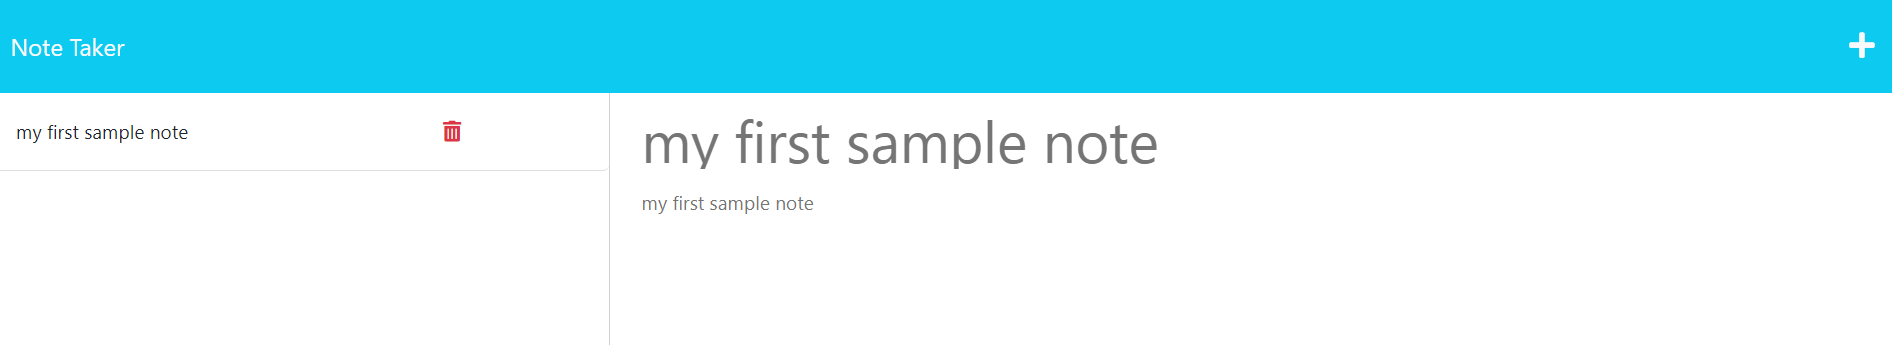
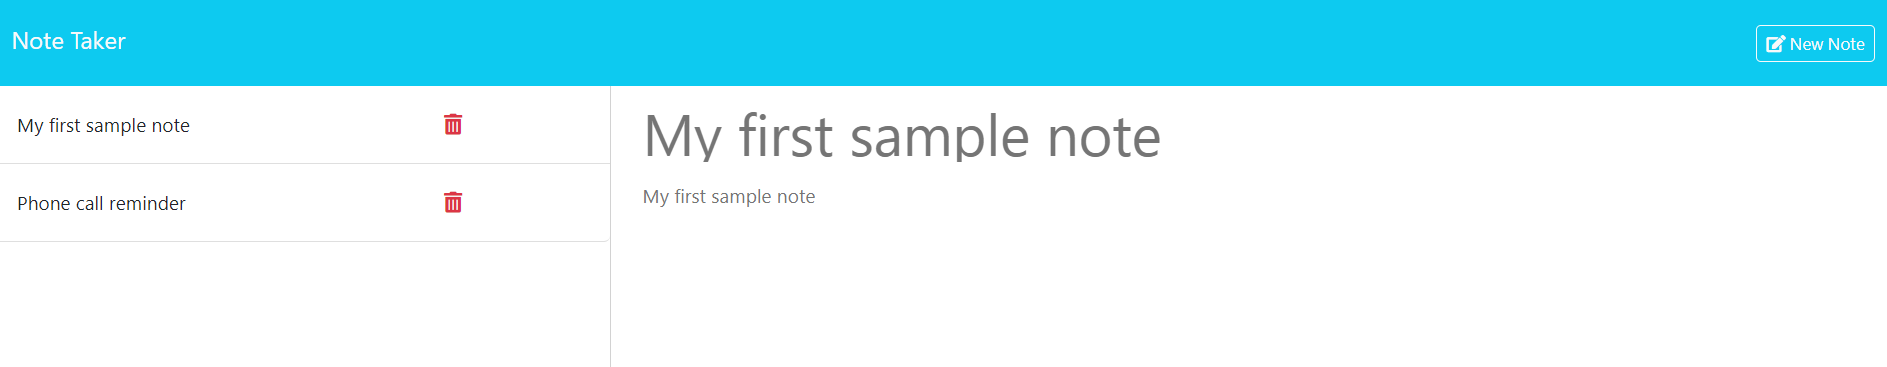
update front end template code to the latest version

diff --git a/public/assets/js/index.js b/public/assets/js/index.js
@@ -1,3 +1,4 @@
+let noteForm;
 let noteTitle;
 let noteText;
 let saveNoteBtn;
@@ -5,10 +6,12 @@ let newNoteBtn;
 let noteList;
 
 if (window.location.pathname === '/notes') {
+  noteForm = document.querySelector('.note-form');
   noteTitle = document.querySelector('.note-title');
   noteText = document.querySelector('.note-textarea');
   saveNoteBtn = document.querySelector('.save-note');
   newNoteBtn = document.querySelector('.new-note');
+  clearBtn = document.querySelector('.clear-btn');
   noteList = document.querySelectorAll('.list-container .list-group');
 }
 
@@ -29,44 +32,39 @@ const getNotes = () =>
   fetch('/api/notes', {
     method: 'GET',
     headers: {
-      'Content-Type': 'application/json',
-    },
-  });
-
-const getNote = () =>
-  fetch('/api/note', {
-    method: 'GET',
-    headers: {
-      'Content-Type': 'application/json',
-    },
+      'Content-Type': 'application/json'
+    }
   });
 
 const saveNote = (note) =>
   fetch('/api/notes', {
     method: 'POST',
     headers: {
-      'Content-Type': 'application/json',
+      'Content-Type': 'application/json'
     },
-    body: JSON.stringify(note),
+    body: JSON.stringify(note)
   });
 
 const deleteNote = (id) =>
   fetch(`/api/notes/${id}`, {
     method: 'DELETE',
     headers: {
-      'Content-Type': 'application/json',
-    },
+      'Content-Type': 'application/json'
+    }
   });
 
 const renderActiveNote = () => {
   hide(saveNoteBtn);
+  hide(clearBtn);
 
   if (activeNote.id) {
+    show(newNoteBtn);
     noteTitle.setAttribute('readonly', true);
     noteText.setAttribute('readonly', true);
     noteTitle.value = activeNote.title;
     noteText.value = activeNote.text;
   } else {
+    hide(newNoteBtn);
     noteTitle.removeAttribute('readonly');
     noteText.removeAttribute('readonly');
     noteTitle.value = '';
@@ -77,7 +75,7 @@ const renderActiveNote = () => {
 const handleNoteSave = () => {
   const newNote = {
     title: noteTitle.value,
-    text: noteText.value,
+    text: noteText.value
   };
   saveNote(newNote).then(() => {
     getAndRenderNotes();
@@ -113,11 +111,16 @@ const handleNoteView = (e) => {
 // Sets the activeNote to and empty object and allows the user to enter a new note
 const handleNewNoteView = (e) => {
   activeNote = {};
+  show(clearBtn);
   renderActiveNote();
 };
 
-const handleRenderSaveBtn = () => {
-  if (!noteTitle.value.trim() || !noteText.value.trim()) {
+// Renders the appropriate buttons based on the state of the form
+const handleRenderBtns = () => {
+  show(clearBtn);
+  if (!noteTitle.value.trim() && !noteText.value.trim()) {
+    hide(clearBtn);
+  } else if (!noteTitle.value.trim() || !noteText.value.trim()) {
     hide(saveNoteBtn);
   } else {
     show(saveNoteBtn);
@@ -184,11 +187,8 @@ const getAndRenderNotes = () => getNotes().then(renderNoteList);
 if (window.location.pathname === '/notes') {
   saveNoteBtn.addEventListener('click', handleNoteSave);
   newNoteBtn.addEventListener('click', handleNewNoteView);
-  noteTitle.addEventListener('keyup', handleRenderSaveBtn);
-  noteText.addEventListener('keyup', handleRenderSaveBtn);
+  clearBtn.addEventListener('click', renderActiveNote);
+  noteForm.addEventListener('input', handleRenderBtns);
 }
 
 getAndRenderNotes();
-
-
-

diff --git a/routes/notes.js b/routes/notes.js
@@ -1,63 +1,63 @@
 const notes = require('express').Router();
 const { v4: uuidv4 } = require('uuid');
-const { readDB, writeDB} = require('../helper/accessDB.js');
+const { readDB, writeDB } = require('../helper/accessDB.js');
 
 const DB_LOCATION = "./db/db.json";
 
 // GET Route for retrieving all notes
 notes.get('/', (req, res) => {
-    readDB(DB_LOCATION
-    ).then((data) => res.json(JSON.parse(data)));
-  });
+  readDB(DB_LOCATION)
+    .then((data) => res.json(JSON.parse(data)));
+});
 
 // GET Route for retrieving a specific note based on note id
 notes.get('/:id', (req, res) => {
-    const noteId = req.params.id;
+  const noteId = req.params.id;
 
-    readDB(DB_LOCATION)
+  readDB(DB_LOCATION)
     .then((data) => JSON.parse(data))
     .then((json) => {
       const result = json.filter((note) => note.id === noteId);
-          return result.length > 0
-          ? res.json(result)
-          : res.status(400).json('No note with that ID');
+      return result.length > 0
+        ? res.json(result)
+        : res.status(400).json('No note with that ID');
     });
-  });
+});
 
 // POST Route for saving a new note
 notes.post('/', (req, res) => {
-    console.log(req.body);
-  
-    const { title, text} = req.body;
-  
-    if (title && text) {
-      const newNote = {
-        title,
-        text,
-        id: uuidv4(),
-      };
+  console.log(req.body);
 
-      readDB(DB_LOCATION)
+  const { title, text } = req.body;
+
+  if (title && text) {
+    const newNote = {
+      title,
+      text,
+      id: uuidv4(),
+    };
+
+    readDB(DB_LOCATION)
       .then((data) => JSON.parse(data))
-      .then((json) =>{
+      .then((json) => {
         json.push(newNote);
-        writeDB(DB_LOCATION,json);
+        writeDB(DB_LOCATION, json);
       })
 
-      res.json(`Note added successfully`);
-    } else {
-      res.status(400).json('Error in adding note');
-    }
-    
-  });
+    res.json(`Note added successfully`);
+  } else {
+    res.status(400).json('Error in adding note');
+  }
+
+});
 
 // DELETE Route for removing a note in the DB based on given id
 notes.delete('/:id', (req, res) => {
-    const noteId = req.params.id;
+  const noteId = req.params.id;
 
-    readDB(DB_LOCATION)
+  readDB(DB_LOCATION)
     .then((data) => JSON.parse(data))
-    .then((json) =>{
+    .then((json) => {
       //remove the note with the given id from the json DB
       const result = json.filter((note) => note.id !== noteId);
 
@@ -68,7 +68,7 @@ notes.delete('/:id', (req, res) => {
       res.json(`Item ${noteId} has been deleted.`);
 
     });
-    
-  });
-  
-  module.exports = notes;
+
+});
+
+module.exports = notes;

diff --git a/public/notes.html b/public/notes.html
@@ -19,25 +19,37 @@
     <nav class="navbar bg-info">
       <a class="navbar-brand text-light p-3" href="/">Note Taker </a>
       <div class="icons">
-        <i class="fas fa-save text-light save-note"></i>
-        <i class="fas fa-plus text-light new-note"></i>
+        <button type="button" class="btn btn-outline-light btn-sm save-note">
+          <span class="fas fa-save"></span>
+          <span>Save Note</span>
+        </button>
+        <button type="button" class="btn btn-outline-light btn-sm new-note">
+          <span class="fas fa-edit"></span>
+          <span>New Note</span>
+        </button>
+        <button type="button" class="btn btn-sm btn-outline-danger clear-btn">
+          <span class="fas fa-times"></span>
+          <span>Clear Form</span>
+        </button>
       </div>
     </nav>
     <div class="container-fluid">
       <div class="row">
-        <div class="col-4 list-container">
+        <div class="col-4 list-container" id="list-container">
           <div class="card">
-            <ul class="list-group"></ul>
+            <ul class="list-group" id="list-group"></ul>
           </div>
         </div>
         <div class="col-8">
-          <input
+          <form class="note-form">
+            <input
             class="note-title"
             placeholder="Note Title"
             maxlength="28"
             type="text"
-          />
-          <textarea class="note-textarea" placeholder="Note Text"></textarea>
+            />
+            <textarea class="note-textarea" placeholder="Note Text"></textarea>
+            </form>
         </div>
       </div>
     </div>

diff --git a/public/index.html b/public/index.html
@@ -6,7 +6,7 @@
   <meta name="viewport" content="width=device-width, initial-scale=1.0">
   <meta http-equiv="X-UA-Compatible" content="ie=edge">
   <title>Note Taker</title>
-  <link href="https://cdn.jsdelivr.net/npm/bootstrap@5.2.3/dist/css/bootstrap.min.css" rel="stylesheet" integrity="sha384-rbsA2VBKQhggwzxH7pPCaAqO46MgnOM80zW1RWuH61DGLwZJEdK2Kadq2F9CUG65" crossorigin="anonymous">
+  <link href="https://cdn.jsdelivr.net/npm/bootstrap@5.2.3/dist/css/bootstrap.min.css" rel="stylesheet" integrity="sha384-rbsA2VBKQhggwzxH7pPCaAqO46MgnOM80zW1RWuH61DGLwZJEdK2Kadq2F9CUG65" crossorigin="anonymous" />
 </head>
 
 <body>

diff --git a/public/assets/css/styles.css b/public/assets/css/styles.css
@@ -5,11 +5,11 @@ body {
   padding: 0;
 }
 
-.save-note {
+.save-note, .new-note, .clear-btn {
   display: none;
 }
 
-.icons i {
+.icons {
   margin-left: 15px;
   margin-right: 15px;
   font-size: 1.5rem;
